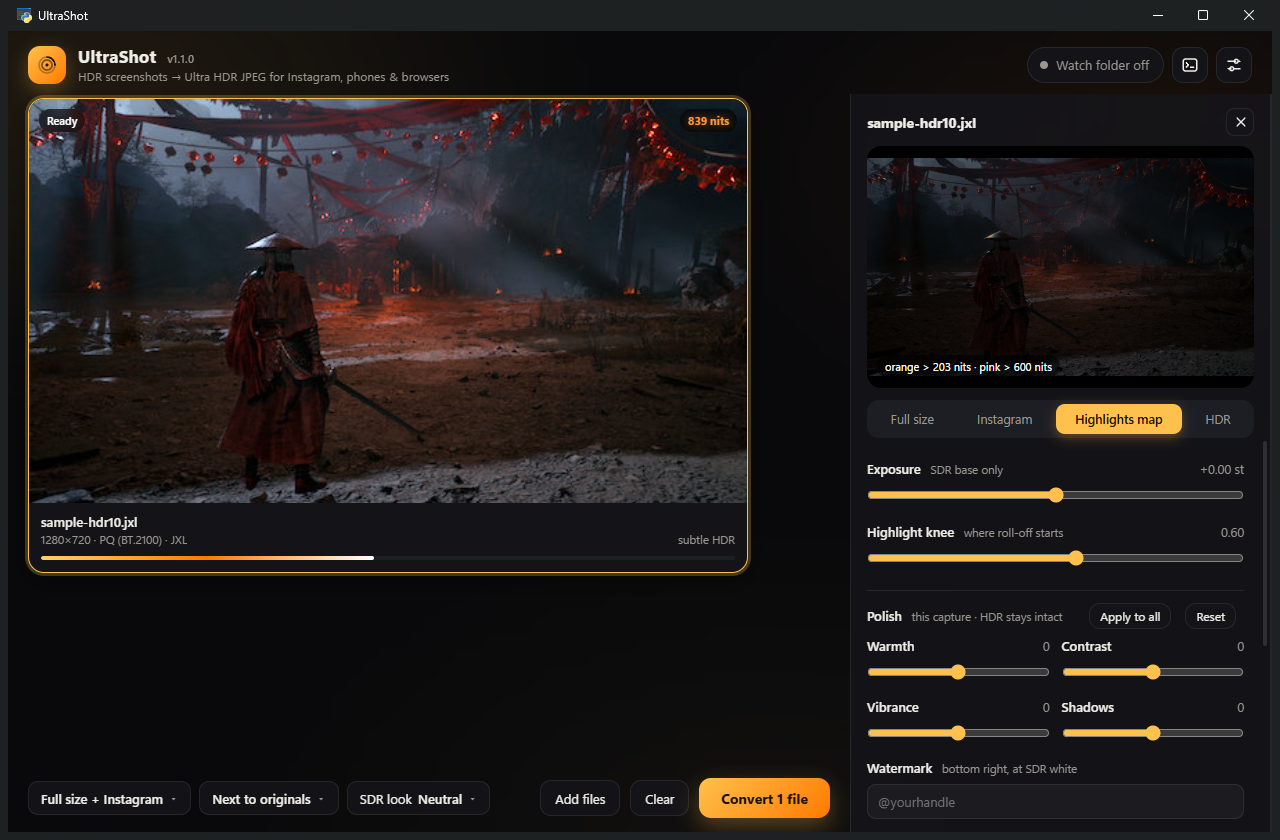
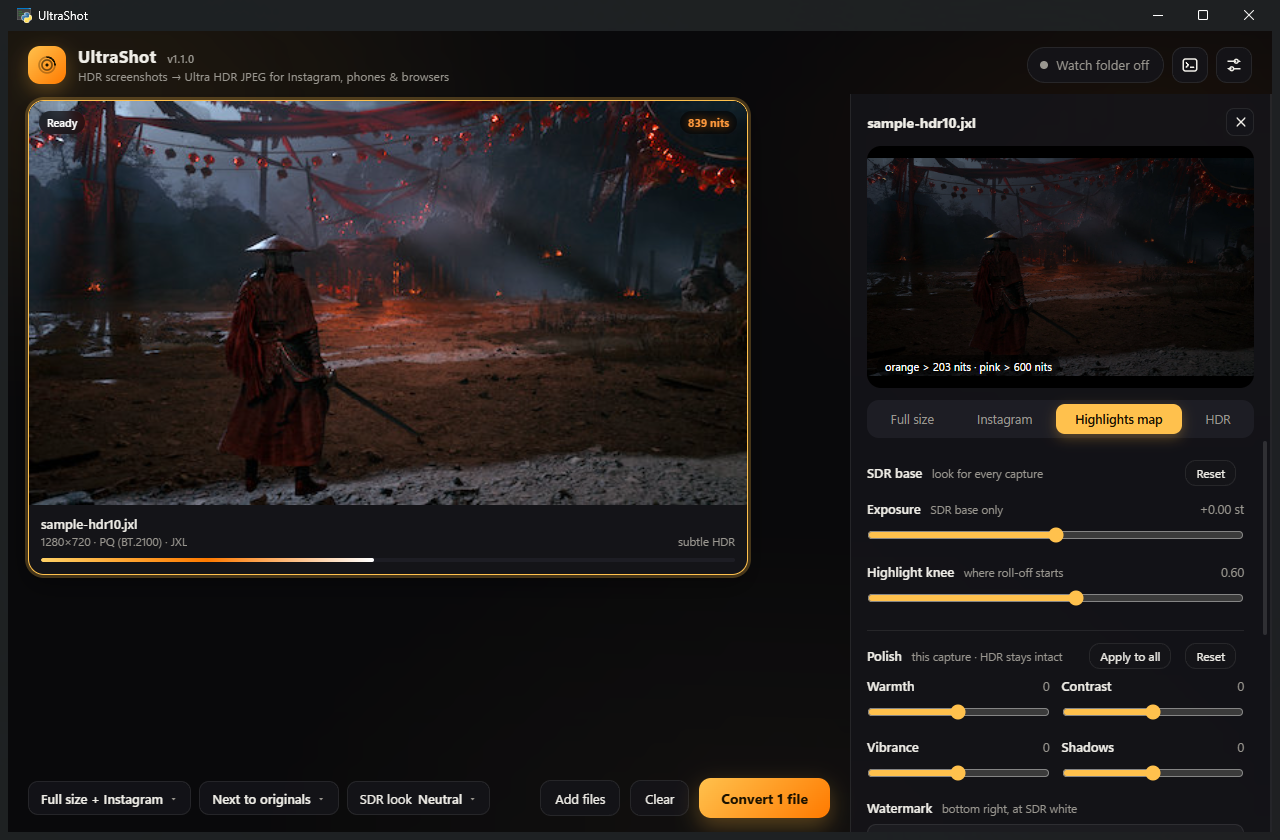
Instagram framing by dragging the picture, per capture; reset for the SDR base look
With a crop chosen, the inspector lays the crop window over the whole picture and the picture is dragged inside it to choose what the copy keeps, with a thirds grid while dragging, instead of two position sliders. The framing is stored on the card and remembered with the list, so each capture is framed on its own; Apply to all copies the polish but leaves framing alone. A Reset button above Exposure and Highlight knee returns the SDR base look to neutral.

diff --git a/ui/app.js b/ui/app.js
@@ -15,6 +15,7 @@ const S = {
   batch: null,           // Set of ids in the current conversion batch
   inspTarget: "full",    // full | ig | heat | hdr
   edit: null,            // uncommitted polish of the selected card while a slider is being dragged
+  frame: null,           // uncommitted Instagram framing while the picture is being dragged
   api: null,
 };
 let previewSeq = 0, previewTimer = null, previewBusy = false, previewAgain = false;
@@ -216,11 +217,11 @@ function renderInspectorControls() {
   const s = S.settings;
   $("#rExposure").value = s.exposure; $("#vExposure").textContent = (s.exposure >= 0 ? "+" : "") + Number(s.exposure).toFixed(2) + " st";
   $("#rKnee").value = s.knee; $("#vKnee").textContent = Number(s.knee).toFixed(2);
-  $("#rCx").value = s.crop_x; $("#vCx").textContent = s.crop_x + "%";
-  $("#rCy").value = s.crop_y; $("#vCy").textContent = s.crop_y + "%";
   $("#inspCrop").querySelectorAll("button").forEach((b) => b.classList.toggle("on", b.dataset.v === (s.ig_crop || "none")));
   $("#inspTarget").querySelectorAll("button").forEach((b) => b.classList.toggle("on", b.dataset.v === S.inspTarget));
   $("#cropFields").style.display = S.inspTarget === "ig" ? "" : "none";
+  $("#frameHint").style.display = S.inspTarget === "ig" && (s.ig_crop || "none") !== "none" ? "" : "none";
+  $("#lookReset").disabled = !!s.auto_sdr || (Number(s.exposure) === 0 && Number(s.knee) === 0.6);
   const dis = !!s.auto_sdr;
   $("#rExposure").disabled = dis; $("#rKnee").disabled = dis;
   renderPolish();
@@ -229,6 +230,56 @@ function renderInspectorControls() {
 const POLISH_KEYS = ["warmth", "contrast", "vibrance", "shadows"];
 function polishOf(f) { return Object.assign({ warmth: 0, contrast: 0, vibrance: 0, shadows: 0, watermark: "" }, (f && f.edit) || {}); }
 function polishIsDefault(e) { return POLISH_KEYS.every((k) => !e[k]) && !(e.watermark || "").trim(); }
+// The Instagram copy's final pixel size for the badge: the crop of the capture, scaled to the width setting.
+function igSize(f) {
+  const s = S.settings, st = f && f.stats; if (!st) return ["?", "?"];
+  let w = st.w, h = st.h;
+  const a = s.ig_crop || "none";
+  if (a !== "none") { const [aw, ah] = a.split(":").map(Number), t = aw / ah; if (w / h > t) w = Math.round(h * t); else h = Math.round(w / t); }
+  const sc = Math.min(1, s.ig_width / w);
+  return [Math.round(w * sc), Math.round(h * sc)];
+}
+// Lay the crop window over the preview and let the picture be dragged inside it.
+function applyFraming(on) {
+  const box = $("#inspPreview"), f = S.files.get(S.selected), s = S.settings;
+  box.classList.toggle("framing", on);
+  if (!on) { box.style.removeProperty("--frame"); box.style.width = ""; return; }
+  const [aw, ah] = (s.ig_crop || "16:9").split(":").map(Number);
+  box.style.setProperty("--frame", `${aw}/${ah}`);
+  // keep tall crops from running off the pane: cap the height and narrow the window instead
+  const paneW = box.parentElement.clientWidth - 32, maxH = 400;
+  box.style.width = paneW * ah / aw > maxH ? Math.round(maxH * aw / ah) + "px" : "";
+  const e = S.frame || polishOf(f);
+  box.style.setProperty("--fx", (e.crop_x ?? 50) + "%"); box.style.setProperty("--fy", (e.crop_y ?? 50) + "%");
+}
+function bindFraming() {
+  const box = $("#inspPreview"); let drag = null;
+  box.addEventListener("pointerdown", (e) => {
+    if (!box.classList.contains("framing") || !S.selected) return;
+    const f = S.files.get(S.selected), st = f && f.stats; if (!st) return;
+    const r = box.getBoundingClientRect(), sc = Math.max(r.width / st.w, r.height / st.h);
+    const cur = S.frame || polishOf(f);
+    drag = { x: e.clientX, y: e.clientY, cx: cur.crop_x ?? 50, cy: cur.crop_y ?? 50, ox: st.w * sc - r.width, oy: st.h * sc - r.height };
+    S.frame = { ...cur };
+    box.setPointerCapture(e.pointerId); box.classList.add("dragging"); e.preventDefault();
+  });
+  box.addEventListener("pointermove", (e) => {
+    if (!drag) return;
+    // dragging the picture to the right reveals more of its left side, so the kept part moves left
+    const cx = drag.ox > 1 ? drag.cx - (e.clientX - drag.x) / drag.ox * 100 : 50;
+    const cy = drag.oy > 1 ? drag.cy - (e.clientY - drag.y) / drag.oy * 100 : 50;
+    S.frame.crop_x = Math.round(Math.max(0, Math.min(100, cx))); S.frame.crop_y = Math.round(Math.max(0, Math.min(100, cy)));
+    box.style.setProperty("--fx", S.frame.crop_x + "%"); box.style.setProperty("--fy", S.frame.crop_y + "%");
+  });
+  const end = async () => {
+    if (!drag) return;
+    drag = null; box.classList.remove("dragging");
+    const patch = { crop_x: S.frame.crop_x, crop_y: S.frame.crop_y }; S.frame = null;
+    const ed = await S.api.set_edit(S.selected, patch, false);
+    if (ed && S.files.get(S.selected)) S.files.get(S.selected).edit = ed;
+  };
+  box.addEventListener("pointerup", end); box.addEventListener("pointercancel", end);
+}
 function renderPolish() {
   const f = S.files.get(S.selected); if (!f) return;
   const e = S.edit || polishOf(f);
@@ -260,13 +311,17 @@ async function doPreview() {
   previewBusy = true;
   const seq = ++previewSeq, s = S.settings, id = S.selected;
   const opts = { exposure: s.exposure, knee: s.knee, auto_sdr: s.auto_sdr, heat: S.inspTarget === "heat", width: 1100, edit: S.edit || undefined };
-  if (S.inspTarget === "ig") Object.assign(opts, { crop: s.ig_crop || "none", cx: s.crop_x, cy: s.crop_y, width: Math.min(1100, s.ig_width) });
+  // Instagram framing happens in the page: the whole picture is rendered once and the crop window
+  // is laid over it, so dragging never waits for a new render.
+  const framing = S.inspTarget === "ig" && (s.ig_crop || "none") !== "none";
+  if (S.inspTarget === "ig") Object.assign(opts, { crop: "none", width: Math.min(1100, Math.max(s.ig_width, 720)) });
+  applyFraming(framing);
   $("#inspLoading").style.display = "";
   try {
     const r = S.inspTarget === "hdr" ? await S.api.hdr_preview(id, S.edit || null) : await S.api.preview(id, opts);
     if (seq === previewSeq && r && r.url) {
       $("#inspImg").src = r.url;
-      $("#inspBadge").textContent = S.inspTarget === "heat" ? "orange > 203 nits · pink > 600 nits" : S.inspTarget === "ig" ? `Instagram ${r.w}×${r.h}` : S.inspTarget === "hdr" ? `Ultra HDR ${r.w}×${r.h} · in HDR on an HDR display` : `SDR base · ${r.w}×${r.h} preview`;
+      $("#inspBadge").textContent = S.inspTarget === "heat" ? "orange > 203 nits · pink > 600 nits" : S.inspTarget === "ig" ? `Instagram ${igSize(S.files.get(id)).join("×")}` : S.inspTarget === "hdr" ? `Ultra HDR ${r.w}×${r.h} · in HDR on an HDR display` : `SDR base · ${r.w}×${r.h} preview`;
       if (r.stats && S.files.get(id)) { S.files.get(id).stats = r.stats; }
     } else if (r && r.error) toast(r.error, "err");
   } catch (e) { toast("preview failed: " + e, "err"); }
@@ -392,7 +447,7 @@ async function saveSetting(key, val) {
   if (key === "theme") applyTheme();
   renderChips(); renderWatch(); renderInspectorControls();
   if (["save_mode", "save_dir", "make_full", "make_ig", "auto_sdr", "suffix", "full_dir", "watch", "watch_subfolders"].includes(key)) renderSettings();
-  if (["exposure", "knee", "auto_sdr", "ig_crop", "crop_x", "crop_y", "transfer", "ig_width"].includes(key)) requestPreview();
+  if (["exposure", "knee", "auto_sdr", "ig_crop", "transfer", "ig_width"].includes(key)) requestPreview();
 }
 
 /* Side panes keep comfortable widths; when another pane would not fit beside the content,
@@ -702,8 +757,11 @@ function bindUI() {
   };
   live("#rExposure", "exposure", (v) => (v >= 0 ? "+" : "") + Number(v).toFixed(2) + " st", "#vExposure");
   live("#rKnee", "knee", (v) => Number(v).toFixed(2), "#vKnee");
-  live("#rCx", "crop_x", (v) => v + "%", "#vCx");
-  live("#rCy", "crop_y", (v) => v + "%", "#vCy");
+  bindFraming();
+  $("#lookReset").addEventListener("click", async () => {
+    S.settings = await S.api.set_settings({ exposure: 0, knee: 0.6 });
+    renderChips(); renderInspectorControls(); requestPreview();
+  });
   // Polish: dragging previews without committing; releasing (or typing a watermark) stores it on the card.
   const commitPolish = async (patch, everyone) => {
     if (!S.selected) return;

diff --git a/ui/index.html b/ui/index.html
@@ -76,10 +76,11 @@
       <svg viewBox="0 0 24 24" width="16" height="16" fill="none" stroke="currentColor" stroke-width="2" stroke-linecap="round"><path d="M6 6l12 12M18 6L6 18"/></svg>
     </button>
   </div>
-  <div class="insp-preview">
+  <div class="insp-preview" id="inspPreview">
     <img id="inspImg" alt="">
     <div class="insp-loading" id="inspLoading"><span class="spinner"></span></div>
     <div class="insp-overlay" id="inspBadge"></div>
+    <div class="frame-grid" aria-hidden="true"></div>
   </div>
   <div class="seg" id="inspTarget">
     <button data-v="full" class="on">Full size</button>
@@ -88,6 +89,7 @@
     <button data-v="hdr" title="The finished Ultra HDR picture, shown in HDR on an HDR display">HDR</button>
   </div>
   <div class="insp-body">
+    <div class="field-row group-row"><label>SDR base <small>look for every capture</small></label><button class="ghost tiny" id="lookReset" title="Back to the neutral look">Reset</button></div>
     <div class="field">
       <div class="field-row"><label>Exposure <small>SDR base only</small></label><span class="val" id="vExposure"></span></div>
       <input type="range" id="rExposure" min="-3" max="3" step="0.05">
@@ -112,10 +114,7 @@
       <div class="seg mini" id="inspCrop">
         <button data-v="none">Original</button><button data-v="4:5">4:5</button><button data-v="1:1">1:1</button><button data-v="16:9">16:9</button><button data-v="9:16">9:16</button><button data-v="1.91:1">1.91:1</button>
       </div>
-      <div class="two">
-        <div><div class="field-row"><label>Position X</label><span class="val" id="vCx"></span></div><input type="range" id="rCx" min="0" max="100" step="1"></div>
-        <div><div class="field-row"><label>Position Y</label><span class="val" id="vCy"></span></div><input type="range" id="rCy" min="0" max="100" step="1"></div>
-      </div>
+      <div class="frame-hint" id="frameHint">Drag the picture above to choose what the crop keeps, the way Instagram does.</div>
     </div>
     <div class="info" id="inspInfo"></div>
     <div class="insp-actions">

diff --git a/ui/app.css b/ui/app.css
@@ -182,6 +182,16 @@ small { color: var(--muted); font-weight: 400; }
 .insp-title { font-weight: 650; font-size: 14px; white-space: nowrap; overflow: hidden; text-overflow: ellipsis; }
 .insp-preview { position: relative; margin: 0 16px; border-radius: 14px; overflow: hidden; background: #000; aspect-ratio: 16/10; display: grid; place-items: center; }
 .insp-preview img { max-width: 100%; max-height: 100%; display: block; }
+.insp-preview.framing { display: block; aspect-ratio: var(--frame, 16/10); margin-left: auto; margin-right: auto; cursor: grab; touch-action: none; user-select: none; }
+.insp-preview.framing img { width: 100%; height: 100%; max-width: none; max-height: none; object-fit: cover; object-position: var(--fx, 50%) var(--fy, 50%); pointer-events: none; }
+.insp-preview.framing.dragging { cursor: grabbing; }
+.frame-grid { position: absolute; inset: 0; opacity: 0; pointer-events: none; transition: opacity .12s;
+  background-image: linear-gradient(to right, rgba(255,255,255,.45) 1px, transparent 1px), linear-gradient(to bottom, rgba(255,255,255,.45) 1px, transparent 1px);
+  background-size: 33.333% 33.333%; background-position: -1px -1px; }
+.insp-preview.framing.dragging .frame-grid { opacity: 1; }
+.frame-hint { font-size: 12px; color: var(--muted); margin-top: 10px; }
+.group-row { margin-top: 14px; }
+.group-row button { margin-left: 8px; }
 .insp-loading { position: absolute; inset: 0; display: grid; place-items: center; background: rgba(0,0,0,.3); }
 .insp-loading .spinner { width: 22px; height: 22px; }
 .insp-overlay { position: absolute; left: 10px; bottom: 10px; font-size: 11px; padding: 4px 8px; border-radius: 999px; background: rgba(0,0,0,.55); color: #fff; }

diff --git a/ultrashot.py b/ultrashot.py
@@ -54,6 +54,8 @@ SETTINGS_FILE = os.path.join(SETTINGS_DIR, "settings.json")
 SESSION_FILE = os.path.join(SETTINGS_DIR, "session.json")        # the file list, restored at launch
 THUMB_DIR = os.path.join(os.environ.get("LOCALAPPDATA") or APPDATA, APP_ID, "thumbs")
 SESSION_MAX = 500                                                # cards kept between launches
+# Everything a card remembers about how to make its outputs: the polish and the Instagram framing.
+EDIT_DEFAULTS = dict(jxl2uhdr.GRADE_DEFAULTS, crop_x=50, crop_y=50)
 OLD_SETTINGS_FILE = os.path.join(APPDATA, "JXL Ultra HDR", "settings.json")
 STARTUP_DIR = os.path.join(APPDATA, r"Microsoft\Windows\Start Menu\Programs\Startup")
 STARTUP_LNK = os.path.join(STARTUP_DIR, "UltraShot.lnk")
@@ -406,7 +408,7 @@ class App:
                     size = 0
                 f = dict(id=fid, name=os.path.basename(p), path=p, size=size, status="queued",
                          stats=None, thumb=None, outputs=[], error=None, added=time.time(),
-                         edit=dict(jxl2uhdr.GRADE_DEFAULTS))
+                         edit=dict(EDIT_DEFAULTS))
                 self.files[fid] = f
                 existing.add(p.lower())
                 added.append(f)
@@ -585,15 +587,22 @@ class App:
 
     @staticmethod
     def _edit_of(saved):
-        g = dict(jxl2uhdr.GRADE_DEFAULTS)
+        g = dict(EDIT_DEFAULTS)
         for k, v in (saved or {}).items():
-            if k in g:
-                g[k] = str(v)[:40] if k == "watermark" else int(max(-100, min(100, float(v or 0))))
+            if k not in g:
+                continue
+            if k == "watermark":
+                g[k] = str(v or "")[:40]
+            elif k in ("crop_x", "crop_y"):
+                g[k] = int(max(0, min(100, float(v if v is not None else 50))))
+            else:
+                g[k] = int(max(-100, min(100, float(v or 0))))
         return g
 
     def set_edit(self, fid, patch, everyone=False):
-        """Change a capture's polish. A converted card goes back to pending so the next Convert
-        writes the new version; with `everyone` the same values are copied to every card."""
+        """Change a capture's polish or Instagram framing. A converted card goes back to pending so
+        the next Convert writes the new version; with `everyone` the polish (not the framing, which
+        is per picture) is copied to every card."""
         with self.lock:
             src = self.files.get(fid)
             if not src:
@@ -602,7 +611,7 @@ class App:
             targets = list(self.files.values()) if everyone else [src]
             for f in targets:
                 if f is not src:
-                    f["edit"] = dict(src["edit"])
+                    f["edit"] = self._edit_of({**src["edit"], "crop_x": f["edit"].get("crop_x", 50), "crop_y": f["edit"].get("crop_y", 50)})
                 if f["status"] in ("done", "skipped"):
                     f["status"] = "queued"
         for f in targets:
@@ -685,7 +694,8 @@ class App:
         small, gamut, stats = self._load_small(f["path"])
         s = self.settings
         o = dict(exposure=s["exposure"], knee=s["knee"], auto_sdr=s["auto_sdr"], crop="none",
-                 cx=s["crop_x"], cy=s["crop_y"], heat=False, width=PREVIEW_W, edit=f.get("edit"))
+                 cx=(f.get("edit") or {}).get("crop_x", s["crop_x"]), cy=(f.get("edit") or {}).get("crop_y", s["crop_y"]),
+                 heat=False, width=PREVIEW_W, edit=f.get("edit"))
         o.update({k: v for k, v in (opts or {}).items() if v is not None})
         url, w, h = self.render(small, gamut, int(o["width"]), o["exposure"], o["knee"], o["auto_sdr"],
                                 o["crop"], o["cx"], o["cy"], o["heat"], grade=o["edit"])
@@ -730,7 +740,8 @@ class App:
         if s["make_ig"]:
             crop = "" if s["ig_crop"] in ("", "none") else s["ig_crop"]
             targets.append(("ig", os.path.join(base, s["ig_dir"] or "Insta", stem + ".jpg"),
-                            dict(crop=crop, crop_x=float(s["crop_x"]), crop_y=float(s["crop_y"]),
+                            dict(crop=crop, crop_x=float((f.get("edit") or {}).get("crop_x", s["crop_x"])),
+                                 crop_y=float((f.get("edit") or {}).get("crop_y", s["crop_y"])),
                                  max_width=int(s["ig_width"]))))
         return targets
 

diff --git a/README.md b/README.md
@@ -96,7 +96,7 @@ of these controls affect the HDR layer, which is always written exactly as captu
     <td><a href="https://raw.githubusercontent.com/sgaddameedi/UltraShot/main/docs/screenshots/settings.png"><img src="docs/screenshots/settings.png" alt="The settings page"></a></td>
   </tr>
   <tr>
-    <td align="center"><sub>The Instagram output previewed with a 4:5 crop and position controls</sub></td>
+    <td align="center"><sub>The Instagram output previewed with a 4:5 crop; drag the picture to frame it</sub></td>
     <td align="center"><sub>Settings</sub></td>
   </tr>
   <tr>
@@ -258,7 +258,7 @@ viewer reconstructs, whatever the SDR base looks like.
 Instagram displays gain-map JPEGs in HDR, but its upload flow removes the gain map the moment the image
 is cropped, resized or filtered. The practical rule is that the image must be finished before it is
 uploaded. UltraShot's Instagram output is 1440 pixels wide, the width Instagram stores, and can be
-cropped to 4:5, 1:1, 16:9, 9:16 or 1.91:1 with the crop positioned in the inspector. When uploading,
+cropped to 4:5, 1:1, 16:9, 9:16 or 1.91:1, framed per capture by dragging the picture inside the crop window in the inspector, the way Instagram's own editor works. When uploading,
 use a desktop browser or an Android device, select *Original* in the aspect-ratio menu, and apply no
 adjustments. The full procedure, with notes on which other services preserve the gain map, is in
 [docs/instagram.md](docs/instagram.md).

diff --git a/CHANGELOG.md b/CHANGELOG.md
@@ -23,6 +23,10 @@ All notable changes to UltraShot are documented here. The format follows
   same tone map so the two differ only by what the encoder changed. The source comparison reports
   the PSNR of the base image against the source, the share of pixels off by more than two levels,
   and the mean, 99th-percentile and over-five-percent luminance error of the reconstructed HDR layer.
+- Instagram framing the Instagram way: with a crop chosen, the inspector shows the crop window over
+  the whole picture and you drag the picture to decide what it keeps, with a grid while dragging.
+  The framing is per capture and remembered with the card; the position sliders are gone.
+- A Reset button for the SDR base look (exposure and highlight knee).
 - Polish: per-capture warmth, contrast, vibrance and shadows sliders and a watermark field in the
   inspector, applied in linear light before the SDR base and the gain map are made. The curves
   fade out above SDR white so the HDR highlights stay exactly as captured, colours move around

diff --git a/docs/settings.md b/docs/settings.md
@@ -18,7 +18,7 @@ Delete the file to reset everything.
 | Full size | On | Full-resolution Ultra HDR JPEG into the *4K HDR* subfolder |
 | Instagram | On | Downscaled copy into the *Insta* subfolder |
 | Width | 1440 px | Width of the Instagram copy. Instagram stores 1440 px; anything wider is resized by Instagram, which strips the gain map |
-| Crop | Original | Aspect ratio of the Instagram copy. Position it in the inspector |
+| Crop | Original | Aspect ratio of the Instagram copy. Each capture is framed in the inspector by dragging the picture inside the crop window, and the framing is remembered with the card |
 | Subfolder names | `4K HDR`, `Insta` | Free text |
 
 ## Saving
